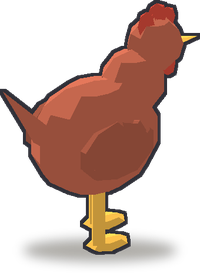
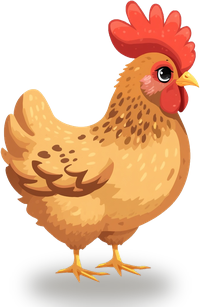
Поставить Кучинскую юбилейную
Claude-Session: https://claude.ai/code/session_013ovumMuRfj2SmgMR5kzGwz

diff --git a/docs/ART-TODO.md b/docs/ART-TODO.md
@@ -25,7 +25,7 @@ python3 tools/import-art.py картинка.png <id>
 
 ## Список
 
-Всего животных 19, готовы 4, одна временная.
+Всего животных 19, готовы 5, одна временная.
 
 | Готово | Файл | Порода | Постройка | Уровень | Как выглядит |
 |:---:|---|---|---|:---:|---|
@@ -36,7 +36,7 @@ python3 tools/import-art.py картинка.png <id>
 | ✅ | `breed-orlov.png` | Орловская ситцевая | Курятник | 4 | Пёстрая ситцевая, борода и баки |
 | ~ | `breed-pavlov.png` | Павловская | Курятник | 5 | Стоит временная: генератор не нарисовал ни хохла, ни мохнатых ног, и вышла третья белая птица |
 |  | `breed-vietnam.png` | Вьетнамская вислобрюхая | Свинарник | 5 | Чёрная свинья, брюхо до земли |
-|  | `breed-kuchin.png` | Кучинская юбилейная | Курятник | 6 | Рыже-бурая, золотая шея |
+| ✅ | `breed-kuchin.png` | Кучинская юбилейная | Курятник | 6 | Рыже-бурая, золотая шея |
 |  | `breed-holmgus.png` | Холмогорский гусь | Гусятник | 7 | Белый гусь, шишка на клюве |
 |  | `breed-yurlov.png` | Юрловская голосистая | Курятник | 7 | Тёмная, рослая, длинные ноги |
 |  | `breed-brama.png` | Брама | Курятник | 8 | Крупная палевая, мохнатые ноги |
